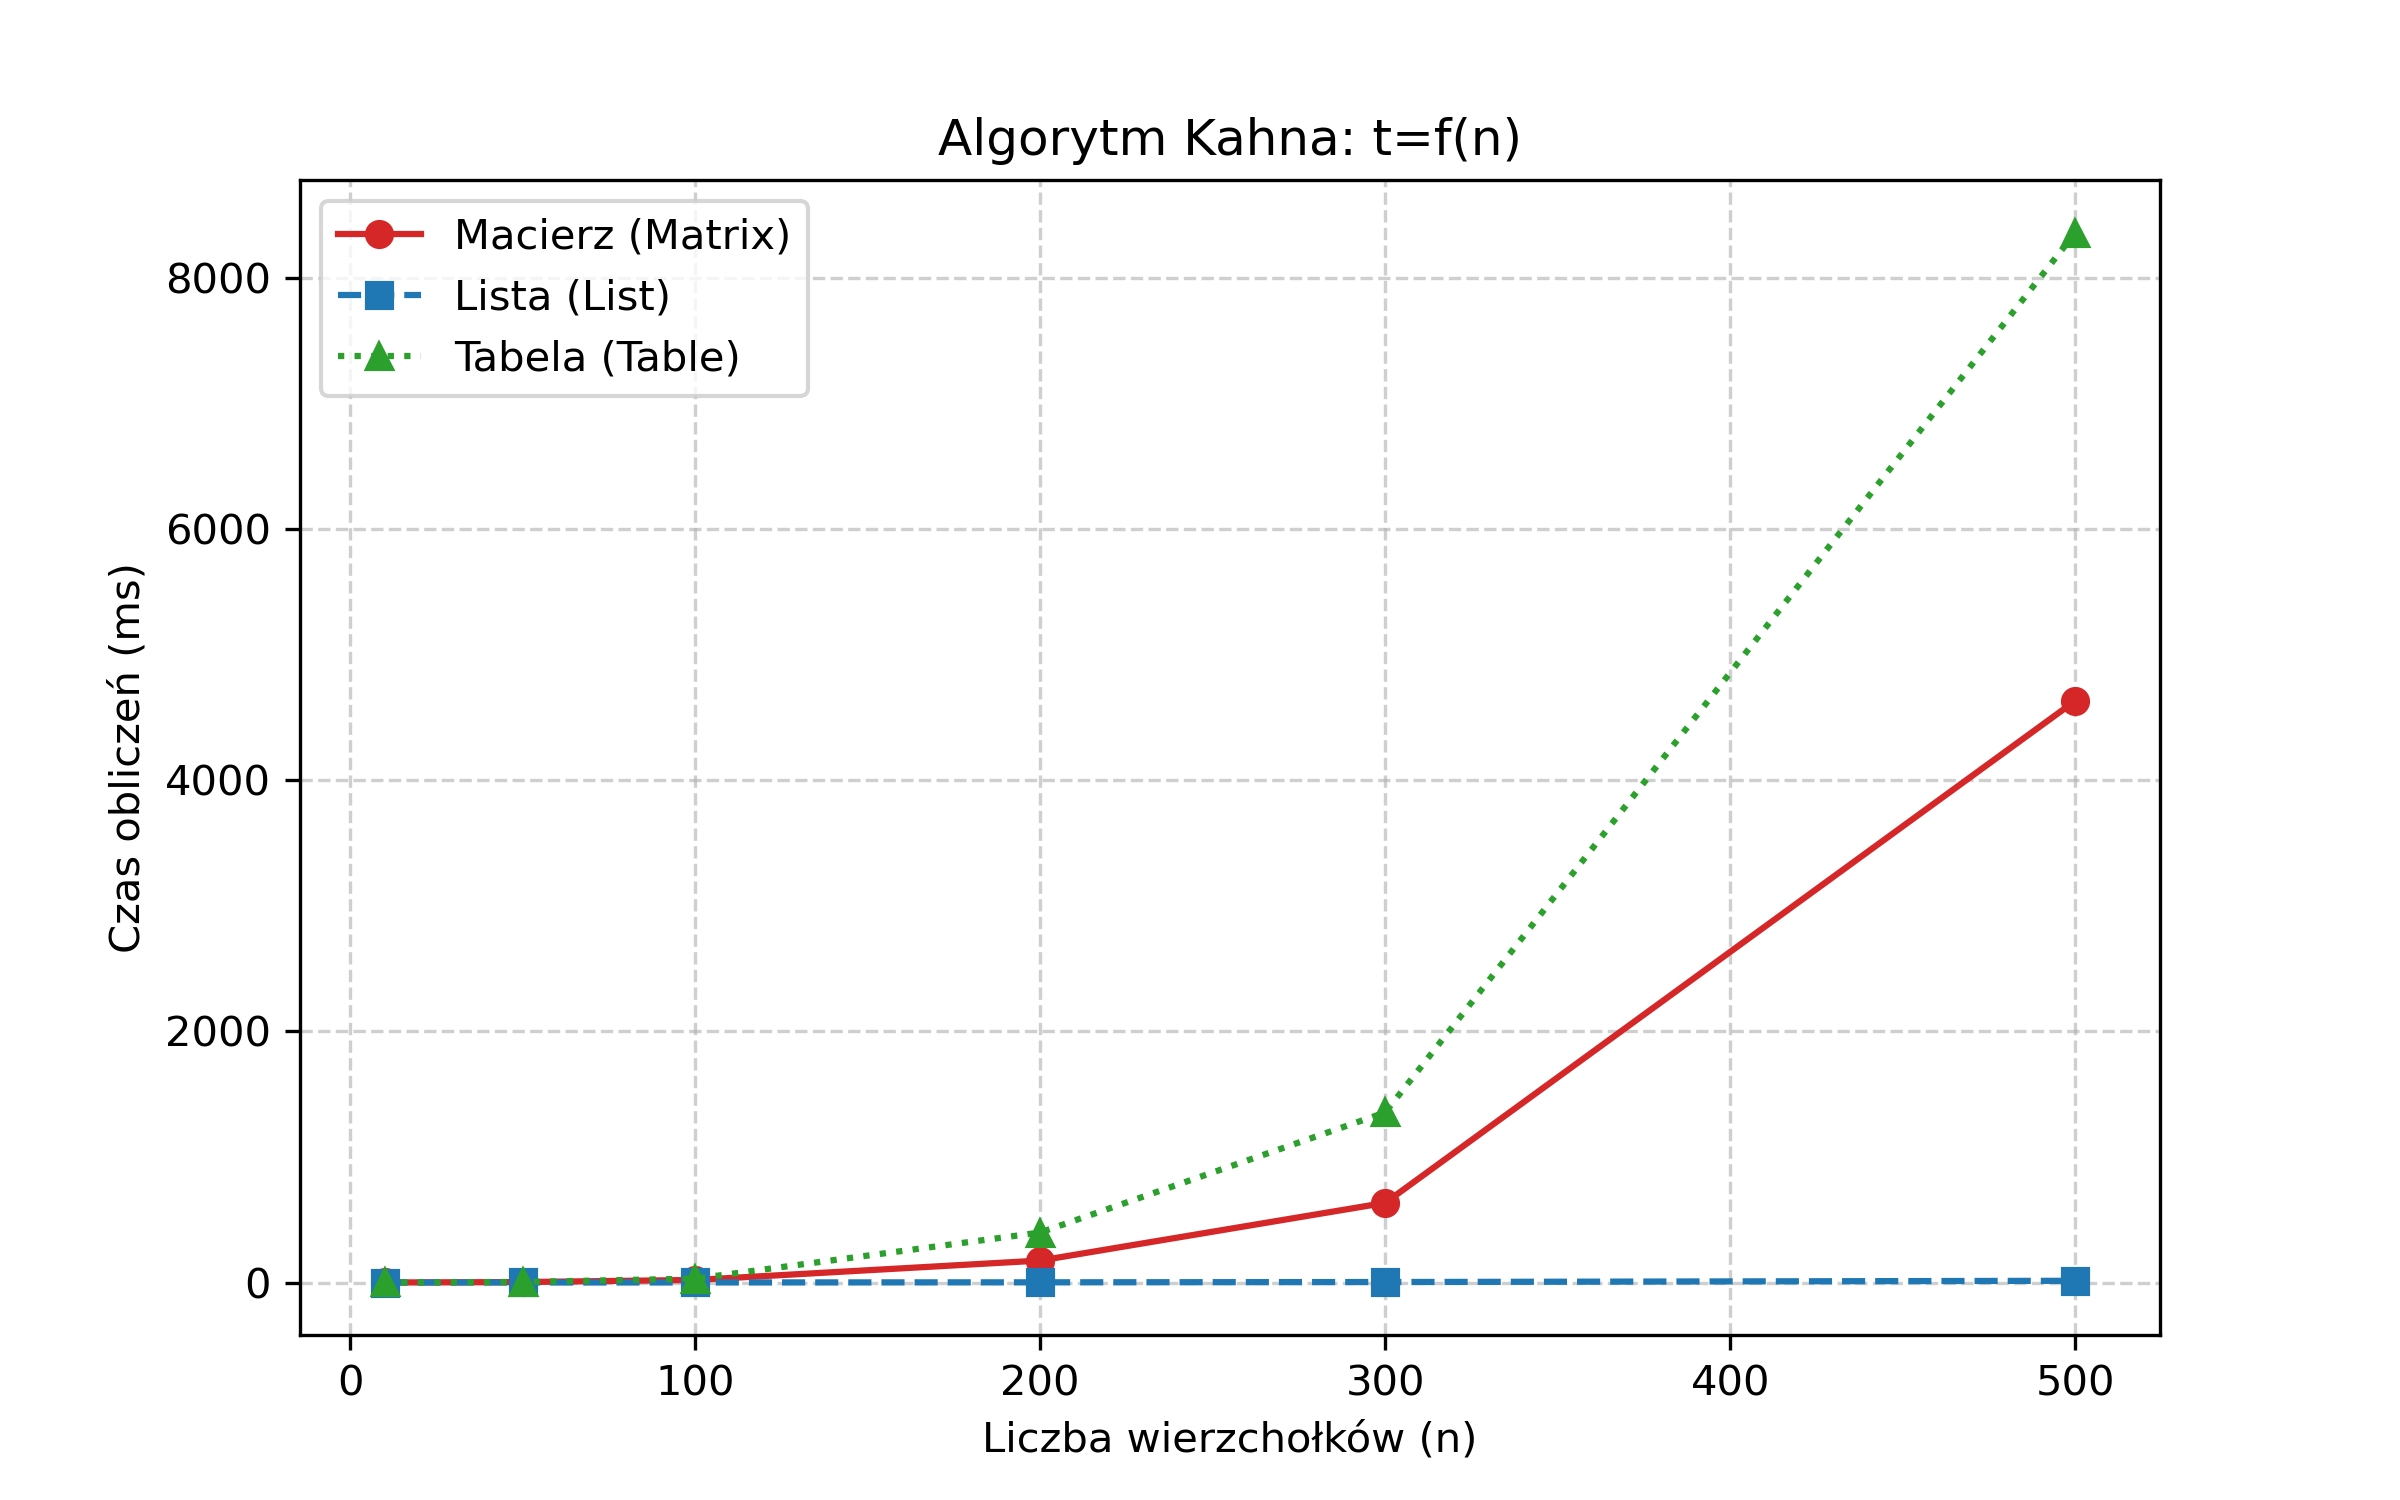
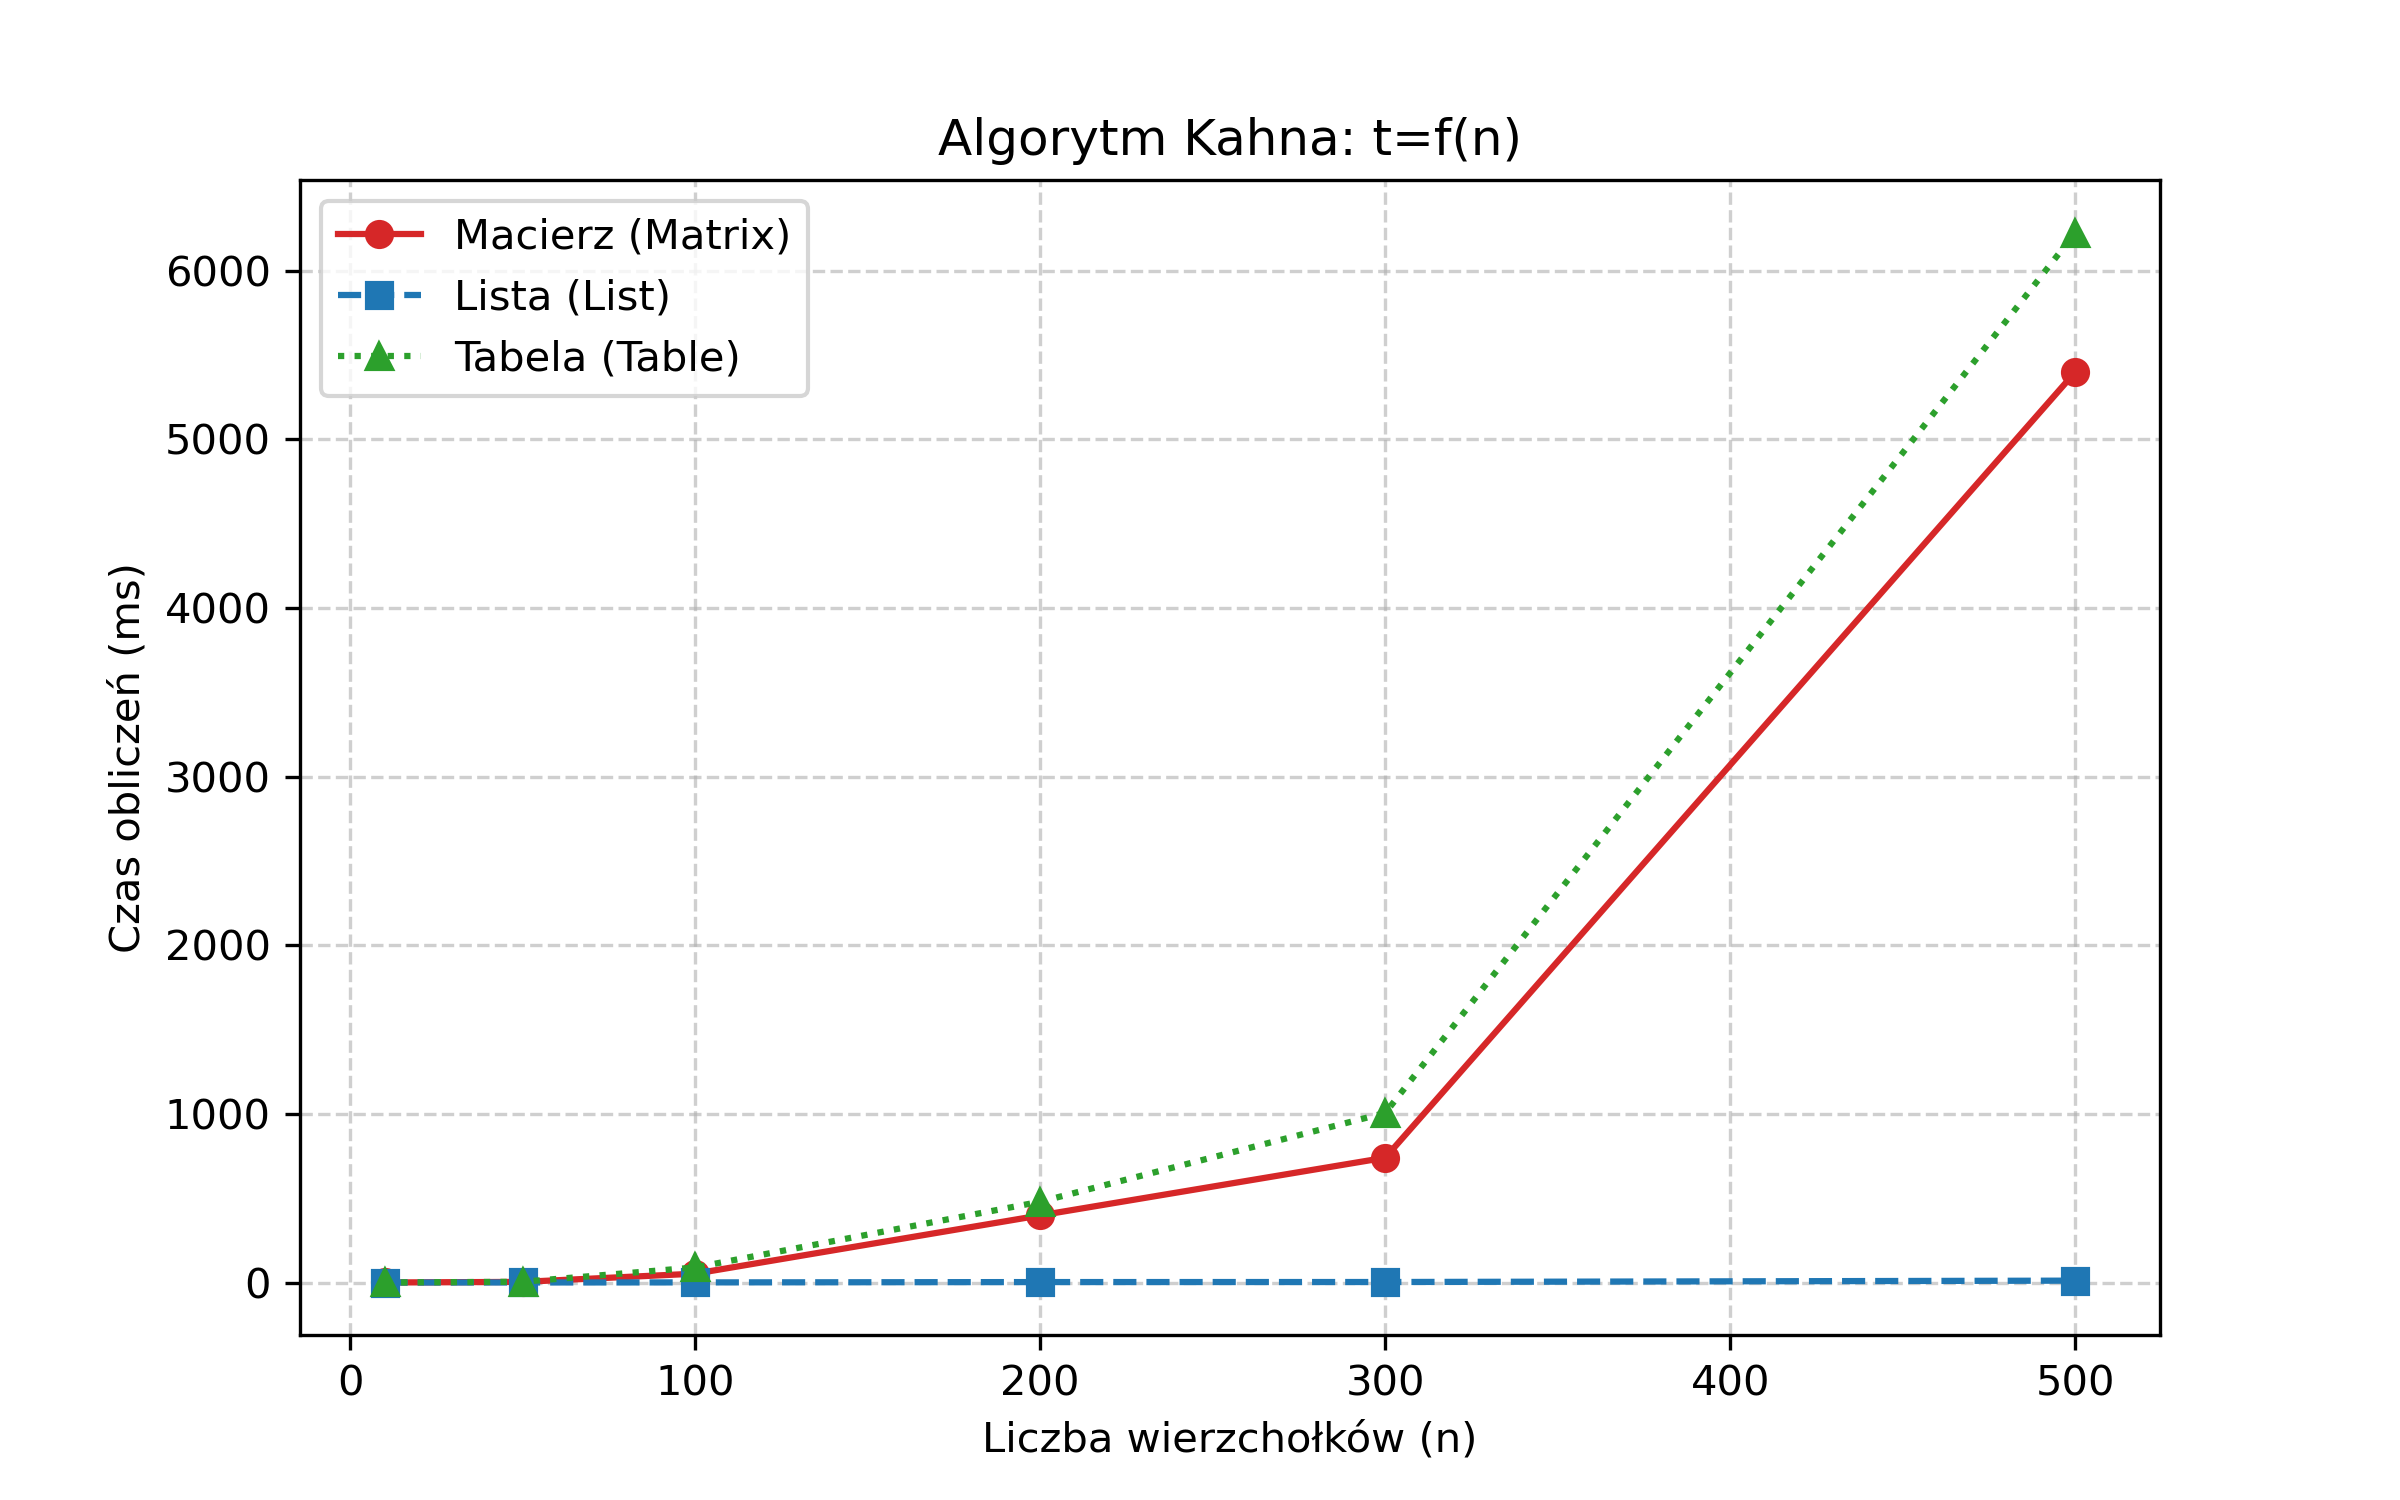
deleted trash

diff --git a/data/benchmark.py b/data/benchmark.py
@@ -40,8 +40,9 @@ def uruchom_benchmark():
 
             #krawedzie
             start = time.perf_counter()
-            find_edge(graph_obj, u, v, rep)
-            czasy_krawedzie[rep] = (time.perf_counter() - start) * 1000
+            for _ in range(100):
+                find_edge(graph_obj, u, v, rep)
+            czasy_krawedzie[rep] = ((time.perf_counter() - start) / 100) * 1000
 
             #sortowanie kahna
             start = time.perf_counter()
